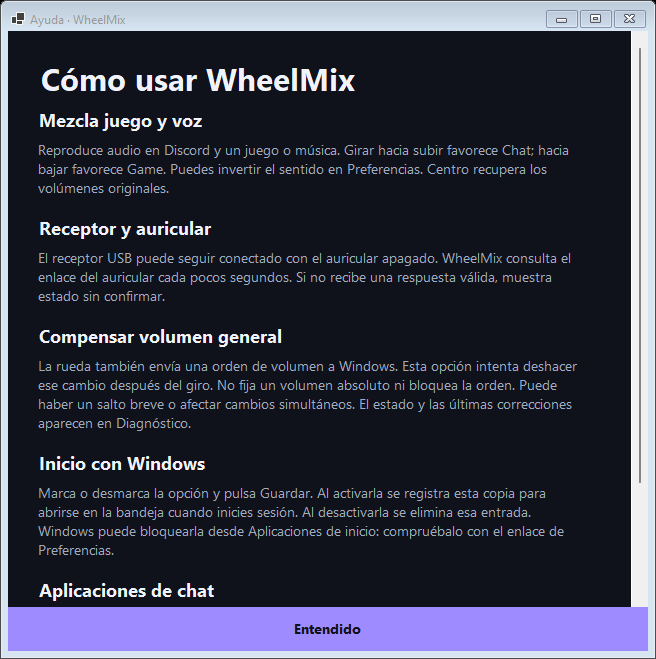
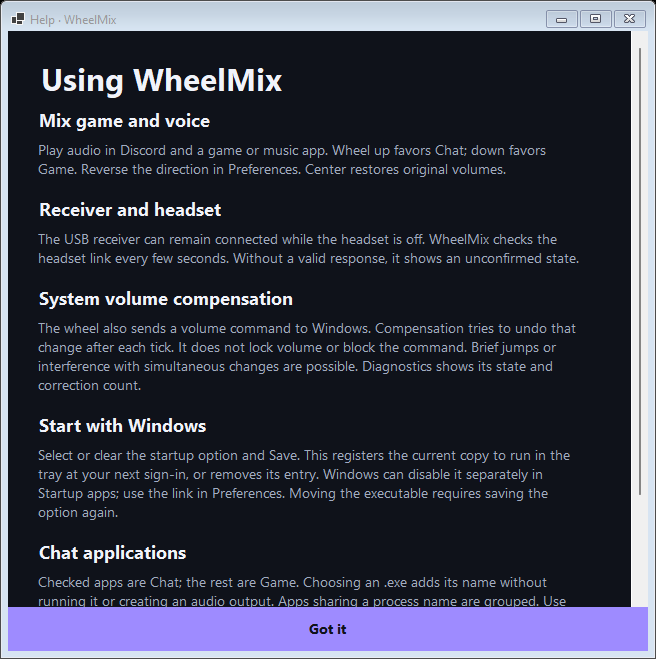
Clean up repository and improve README for discovery
- Remove local launcher scripts that pointed at the build folder.
- Regenerate the solution without the stale work/ project.
- English and Spanish screenshots, social preview image, FAQ.
- Feature request template and up-to-date testing notes.

Changed region(s): [[0.061, 0.091, 0.8841, 0.8498], [0.061, 0.8801, 0.8537, 0.9712], [0.061, 0.0, 0.1829, 0.0607]]

diff --git a/README.md b/README.md
@@ -14,9 +14,9 @@ Turn the volume wheel of your Logitech PRO X 2 LIGHTSPEED into a Game / Chat mix
 
 <p align="center"><a href="README.es.md">Leer en español</a></p>
 
-![WheelMix main window](docs/interface.png)
+![WheelMix main window: Game and Chat balance controlled by the Logitech PRO X 2 volume wheel](docs/interface.png)
 
-WheelMix balances Discord (or any voice app) against the rest of your audio using the Windows mixer. No SteelSeries GG, no virtual audio devices, no drivers.
+WheelMix is a free, open-source **ChatMix-style game/chat balance for the Logitech PRO X 2 LIGHTSPEED** wireless headset. Turn the headset's volume wheel and it lowers your game while keeping Discord (or Teams, TeamSpeak, Zoom…) loud, or the other way round. It works with the standard Windows volume mixer: no SteelSeries GG, no virtual audio devices, no drivers, and G HUB can keep running.
 
 ## Download
 
@@ -36,6 +36,29 @@ WheelMix balances Discord (or any voice app) against the rest of your audio usin
 - **Your chat apps**: Discord, Teams, TeamSpeak and Zoom are preset; add any `.exe`.
 - **Headset status and battery**, pause, reverse direction and step size.
 - **13 languages**: English, Español, Català, Deutsch, Français, Italiano, Nederlands, Polski, Português, Русский, 日本語, 한국어, 简体中文. [Add yours](locales/README.md).
+
+## Screenshots
+
+| Preferences | Help |
+|---|---|
+| ![WheelMix preferences: language, wheel step, startup with Windows and chat applications](docs/preferences.png) | ![WheelMix built-in help](docs/help.png) |
+
+## FAQ
+
+**Is this ChatMix for Logitech headsets?**
+Yes, that is the idea. SteelSeries headsets have a ChatMix dial; WheelMix gives the PRO X 2 LIGHTSPEED the same game/chat balance using the wheel it already has.
+
+**Does it need G HUB or SteelSeries GG?**
+No. G HUB can stay installed and running. SteelSeries Sonar is optional and only used if you pick it as the audio backend.
+
+**Does it create virtual audio devices?**
+No. Games and Discord keep using your normal output; WheelMix only changes each app's volume in the Windows mixer.
+
+**Other Logitech headsets (PRO X, G Pro X 2 over Bluetooth, G535…)?**
+Only the PRO X 2 LIGHTSPEED on its USB receiver is supported and tested. Captures from other models are welcome in an issue.
+
+**The wheel still changes the Windows volume.**
+The headset always sends that command. Keep *Compensate system volume* on in Preferences to undo it after each tick, or pause WheelMix to use the wheel as a normal volume knob.
 
 ## How it works
 

diff --git a/docs/TESTING.md b/docs/TESTING.md
@@ -1,10 +1,16 @@
 # Validation
 
 ## Automated
-- 22 checks: clamp at both ends, inversion, center, native attenuation factors, Sonar parsing, route fallback and locale-invariant writes.
-- Native Core Audio test: its own silent session only; mute, half-volume, restoration.
-- UI render smoke: main screen and settings; no audio modifications.
-- Build and publish: zero warnings/errors expected. CI runs the non-hardware checks.
+`./build.ps1` runs `WheelMix.exe --self-test` and fails the build on any error. The same checks run in GitHub Actions on every push, pull request and release tag.
+- Mixing logic: clamp at both ends, inversion, exact center, native attenuation factors.
+- Sonar parsing and HTTP contract (mocked, loopback only).
+- Headset status packets: connected with battery, off, no response, invalid battery.
+- Chat executable selection, startup command quoting, startup registration and rollback on a throwaway registry key, Windows startup toggle state.
+- Every bundled language: no missing or unknown keys, placeholders intact; regional and unknown language fallback.
+- Close-to-tray rules: X hides, Exit and Windows shutdown close.
+
+UI smoke tests (no audio changes): `--ui-smoke --ui-test-tray` (X hides, tray Open restores, tray Exit quits) and `--ui-smoke --ui-test-language` (live language switch).
+Native Core Audio test: `--test-windows` uses its own silent session only; mute, half-volume, restoration.
 
 ## Hardware
 Confirmed on the available PRO X 2 receiver: VID 046D, PID 0AF7, consumer page 000C, usage 0001. Reports observed: 02 01 (up), 02 02 (down), 02 00 (release). Release packets do not move the mix.
@@ -27,7 +33,7 @@ The included runtime was verified by publishing self-contained. A clean-machine 
 ## Developer commands
 Use the published executable with `--self-test`, `--test-windows`, `--enumerate --diagnose`, `--diagnose`, or `--probe-sonar`.
 
-For a screenshot without audio changes:
+For a screenshot without audio changes (add `--language <code>` to pick the language):
 `WheelMix.exe --ui-smoke preview.png`
 or
 `WheelMix.exe --ui-smoke --ui-settings settings.png`.

diff --git a/README.es.md b/README.es.md
@@ -7,9 +7,9 @@ Convierte la rueda de volumen de tus Logitech PRO X 2 LIGHTSPEED en un mezclador
 
 <p align="center"><a href="README.md">Read in English</a></p>
 
-![Ventana principal de WheelMix](docs/interface.png)
+![Ventana principal de WheelMix: balance entre Game y Chat con la rueda de los Logitech PRO X 2](docs/es/interface.png)
 
-WheelMix equilibra Discord (o cualquier app de voz) con el resto del audio usando el mezclador de Windows. Sin SteelSeries GG, sin dispositivos de audio virtuales y sin controladores.
+WheelMix es un **ChatMix gratuito y de código abierto para los auriculares Logitech PRO X 2 LIGHTSPEED**. Gira la rueda de volumen del auricular y baja el juego mientras Discord (o Teams, TeamSpeak, Zoom…) sigue alto, o al revés. Usa el mezclador de volumen normal de Windows: sin SteelSeries GG, sin dispositivos de audio virtuales, sin controladores, y G HUB puede seguir abierto.
 
 ## Descargar
 
@@ -29,6 +29,12 @@ WheelMix equilibra Discord (o cualquier app de voz) con el resto del audio usand
 - **Tus apps de chat**: Discord, Teams, TeamSpeak y Zoom vienen incluidas; puedes añadir cualquier `.exe`.
 - **Estado y batería del auricular**, pausa, dirección inversa y tamaño de paso.
 - **13 idiomas**, seleccionables en Preferencias › Idioma. [Añade el tuyo](locales/README.md).
+
+## Capturas
+
+| Preferencias | Ayuda |
+|---|---|
+| ![Preferencias de WheelMix: idioma, paso de la rueda, inicio con Windows y apps de chat](docs/es/preferences.png) | ![Ayuda integrada de WheelMix](docs/es/help.png) |
 
 ## Límites
 
